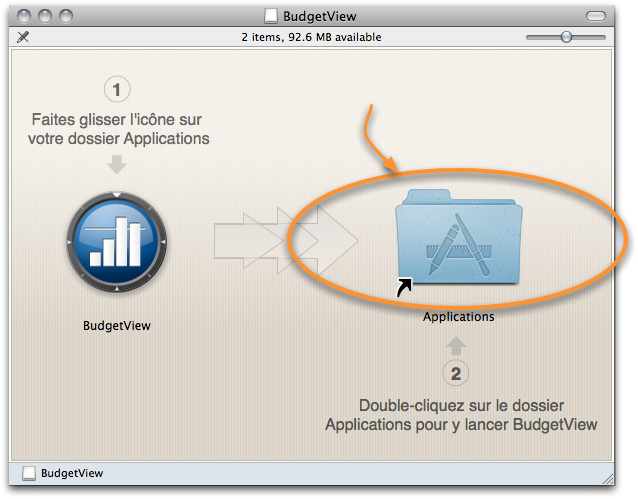
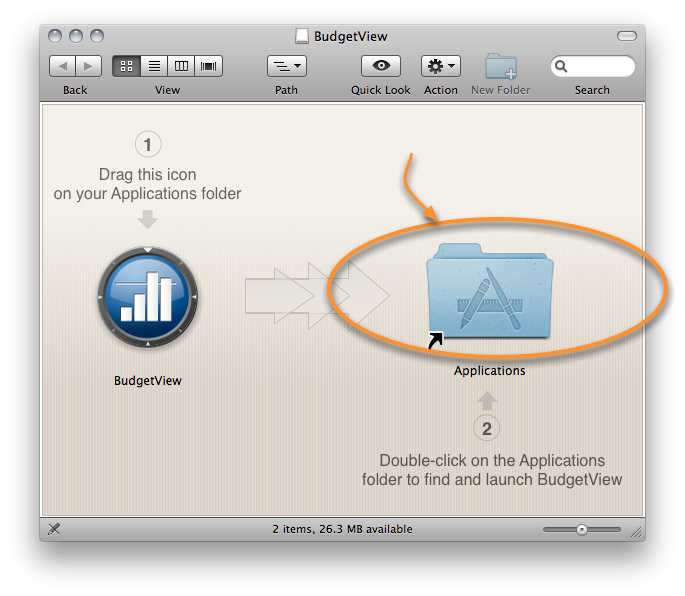
Suite traduction du site .com

diff --git a/picsou/picsou/website/en/content/front_page.html b/picsou/picsou/website/en/content/front_page.html
@@ -1,8 +1,19 @@
 <?php
-  drupal_add_html_head('<script type="text/javascript" src="http://ajax.googleapis.com/ajax/libs/jquery/1.4/jquery.min.js"></script>');
-  drupal_add_html_head('<script type="text/javascript" src="/files/fancybox/jquery.fancybox-1.3.4.pack.js"></script>');
-  drupal_add_html_head('<script type="text/javascript" src="/files/fancybox/jquery.mousewheel-3.0.4.pack.js"></script>');
-  drupal_add_html_head('<link rel="stylesheet" href="/files/fancybox/jquery.fancybox-1.3.4.css" type="text/css" media="screen" />');
+
+drupal_add_js('http://ajax.googleapis.com/ajax/libs/jquery/1.4/jquery.min.js');
+drupal_add_js('/files/fancybox/jquery.fancybox-1.3.4.pack.js', 'external');
+drupal_add_js('/files/fancybox/jquery.mousewheel-3.0.4.pack.js', 'external');
+
+$fancybox_css = array(
+  '#tag' => 'link',
+  '#attributes' => array(
+    'href' => '/files/fancybox/jquery.fancybox-1.3.4.css',
+    'rel' => 'stylesheet',
+    'type' => 'text/css',
+  ),
+);
+drupal_add_html_head($fancybox_css, 'fancybox_styles');
+
 ?>
 
 <div id="home">
@@ -16,7 +27,7 @@
 
             <h2>Plan and monitor your spendings<br/>over the next months...<br/>
               and realize your projects!</h2>
-            <a href="/telechargement">
+            <a href="/download">
               <img src="files/images/front/try_button.png" alt="Try now!"
                    width="248" height="65"/>
             </a>
@@ -27,9 +38,12 @@
         <td>
           <div id="videoBorder">
             <div id="flashcontent" style="background: #000">
-              <object width=560 height=420><param name="movie" value="http://cdn.smugmug.com/ria/ShizVidz-2011030702.swf" />
+              <object width=560 height=420 style="z-index:-1;">
+                <param name="movie" value="http://cdn.smugmug.com/ria/ShizVidz-2011030702.swf"/>
                 <param name="allowFullScreen" value="true" />
                 <param name="allowScriptAccess" value="always" />
+                <!-- To prevent the object from covering the fancybox div -->
+                <param name="wmode" value="transparent" />
                 <param name="flashVars" value="s=ZT0xJmk9MTU5MzYzMjIyNCZrPVhKdGt0UFQmYT0yMDE3Nzg4MV9GN0tMcVImdT1idWRnZXR2aWV3&so=0&se=0&l=0" />
                 <embed src="http://cdn.smugmug.com/ria/ShizVidz-2011030702.swf" flashVars="s=ZT0xJmk9MTU5MzYzMjIyNCZrPVhKdGt0UFQmYT0yMDE3Nzg4MV9GN0tMcVImdT1idWRnZXR2aWV3&so=0&se=0&l=0"
                        width="560" height="420" type="application/x-shockwave-flash"
@@ -65,7 +79,7 @@
               'overlayColor' : '#444'
               });
             </script>
-
+            
           <td class="center">
             <img src="files/images/front/separator_left.png" width="9" height="83"/>
           </td>

diff --git a/picsou/picsou/website/en/content/download_windows.html b/picsou/picsou/website/en/content/download_windows.html
@@ -9,11 +9,11 @@
       </td>
       <td class="right">
         <p>Click on the button below to start downloading BudgetView:</p>
-        <a href="/files/app/BudgetView-2.15-en-Setup.exe">
+        <a href="/files/app/BudgetView-2.18-en-Setup.exe">
           <img src="/files/images/download/download.png" alt="Télécharger" height="82" width="298"/><br>
         </a>
         <p class="biglink" style="margin-top:10px">
-          <a href="/files/app/BudgetView-2.15-en-Setup.exe" class="highlighted">BudgetView-2.15-en-Setup.exe</a>
+          <a href="/files/app/BudgetView-2.18-en-Setup.exe" class="highlighted">BudgetView-2.18-en-Setup.exe</a>
         </p>
       </td>
     </tr>
@@ -25,24 +25,19 @@
     the Firefox browser and click on the "Download" button above. You will see a windows like this:</p>
 
   <div class="screenshot">
-    <img src="/files/images/download/windows/firefox_download1.png" alt="" width="" height=""/>
+    <img src="/files/images/download/windows/firefox_download1.png" alt="Download BudgetView on Firefox - confirmation"/>
   </div>
 
-  <p>Click on "Download" - you should then see a window like the one below. If the window does not appear,
+  <p>Click on "Save File" - you should then see a window like the one below. If the window does not appear,
     you can open it from the "Tools / Downloads" menu.</p>
 
   <div class="screenshot">
-    <img src="/files/images/download/windows/firefox_download2.png" alt="" width="" height=""/>
+    <img src="/files/images/download/windows/firefox_download2.png" alt="Download BudgetView on Firefox - file download"/>
   </div>
 
   <p>Double-click now on BudgetView. A new window appears. You have to accept to start the installation process,
-    then you should have the following question:</p>
-
-  <div class="screenshot">
-    <img src="/files/images/download/windows/firefox_download3.png" alt="" width="" height=""/>
-  </div>
-
-  <p>Click on the "OK" button:</p>
+    then Windows will as you to confirm the execution of the installation program.
+    Once you accept the installation, the following dialog will appear:</p>
 
   <div class="screenshot">
     <img src="/files/images/download/windows/confirm.png" alt="Confirmation" width="419" height="139"/>
@@ -64,7 +59,7 @@
     <img src="/files/images/download/windows/install_finished.png" alt="Installation terminée"/>
   </div>
 
-  <p>Voilà! You just have to click on "End", and you're ready to use BudgetView.</p>
+  <p>Voilà! You just have to click on "Finish", and you're ready to use BudgetView.</p>
 
   <hr/>
 

diff --git a/picsou/picsou/website/fr/content/support/change_log.html b/picsou/picsou/website/fr/content/support/change_log.html
@@ -2,17 +2,26 @@
 
   <p>Voici les dernières évolutions de BudgetView&nbsp;:</p>
 
-  <h2>version 2.14 <span class="date">31 octobre 2011</span></h2>
+  <h2>version 2.17 <span class="date">29 novembre 2011</span></h2>
   <ul>
-    <li>Import des catégories dans les fichiers Money</li>
-    <li>Correction d'une erreur survenant lors de l'import d'opérations pour un compte ayant été supprimé.</li>
-    <li>Correction d'une erreur survenant dans certains cas de suppression d'enveloppe (merci Bernard)</li>
+    <li>Correction d'un blocage lorsque l'on quitte l'application à partir de la page d'accueil sous Mac OS X</li>
+    <li>Correction d'un problème dans la navigation d'une enveloppe de la vue Budget vers les opérations
+    correspondantes dans la vue Comptes</li>
+    <li>Elimination des "tooltips" fantômes lors de l'utilisation de Alt-Tab sous Mac OS X</li>
+    <li>Ajout d'une dizaine de banques Françaises, notamment des banques en ligne</li>
   </ul>
   <p><b>Pour profiter de ces évolutions</b>, il vous suffit de relancer BudgetView, attendre
     quelques secondes, puis suivre les instructions qui s'affichent.
     Si vous n'avez pas encore BudgetView,
     <a title="Téléchargez BudgetView" href="http://www.mybudgetview.fr/telechargement">installez-le</a> dès maintenant&nbsp;!
   </p>
+
+  <h2>version 2.14 <span class="date">31 octobre 2011</span></h2>
+  <ul>
+    <li>Import des catégories dans les fichiers Money</li>
+    <li>Correction d'une erreur survenant lors de l'import d'opérations pour un compte ayant été supprimé.</li>
+    <li>Correction d'une erreur survenant dans certains cas de suppression d'enveloppe (merci Bernard)</li>
+  </ul>
 
   <h2>version 2.13 <span class="date">18 octobre 2011</span></h2>
   <ul>

diff --git a/picsou/picsou/website/fr/content/front_page.html b/picsou/picsou/website/fr/content/front_page.html
@@ -30,6 +30,7 @@
               <object width="560" height="420" style="background: #000">
                 <param name="movie" value="http://cdn.smugmug.com/ria/ShizVidz-2011030702.swf" />
                 <param name="allowFullScreen" value="true" />
+                <!-- To prevent the object from covering the fancybox div -->
                 <param name="wmode" value="opaque"/>
                 <param name="flashVars" value="s=ZT0xJmk9MTIyOTE5MDQ1NyZrPVZ2QjkyJmE9MTQ0NTcyNzlfNFRwTUImdT1idWRnZXR2aWV3&so=0&se=0&l=0" />
                 <embed src="http://cdn.smugmug.com/ria/ShizVidz-2011030702.swf" flashVars="s=ZT0xJmk9MTIyOTE5MDQ1NyZrPVZ2QjkyJmE9MTQ0NTcyNzlfNFRwTUImdT1idWRnZXR2aWV3&so=0&se=0&l=0" width="560" height="420" type="application/x-shockwave-flash" allowFullScreen="true"></embed>

diff --git a/picsou/picsou/website/fr/content/support/entree_code_activation.html b/picsou/picsou/website/fr/content/support/entree_code_activation.html
@@ -1,0 +1,15 @@
+<p>
+  Lorsque vous achetez une licence d'utilisation de BudgetView, vous recevez un email
+  comportant:
+  </p>
+  <ul>
+    <li>L'adresse email avec laquelle vous avez acheté la licence</li>
+    <li>Le code d'activation en question, composé de quatre chiffres</li>
+  </ul>
+<p>
+  Pour enregistrer votre code d'activation, suivez les étapes ci-dessous&nbsp;:
+</p>
+
+<div class="centered">
+  <img src="http://www.mybudgetview.fr/files/images/support/entree_code.png"/>
+</div>

diff --git a/picsou/picsou/website/en/content/support/change_log.html b/picsou/picsou/website/en/content/support/change_log.html
@@ -1,6 +1,6 @@
 <div id="changelog">
 
-  <h2>version 2.16 <span class="date">November 27, 2011</span></h2>
+  <h2>version 2.17 <span class="date">November 29, 2011</span></h2>
   <ul>
     <li>Hello world! This is the first version in English.</li>
   </ul>

diff --git a/picsou/picsou/website/en/sites_all_themes/mybudgetview/mycss/mybudgetview.css b/picsou/picsou/website/en/sites_all_themes/mybudgetview/mycss/mybudgetview.css
@@ -840,6 +840,10 @@ table.field-value td.value {
   margin-right: auto;
 }
 
+#home #videoBorder #flashcontent object {
+  z-order: 500;
+}
+
 #home #text {
   margin-right: 30px;
   text-align: center;
